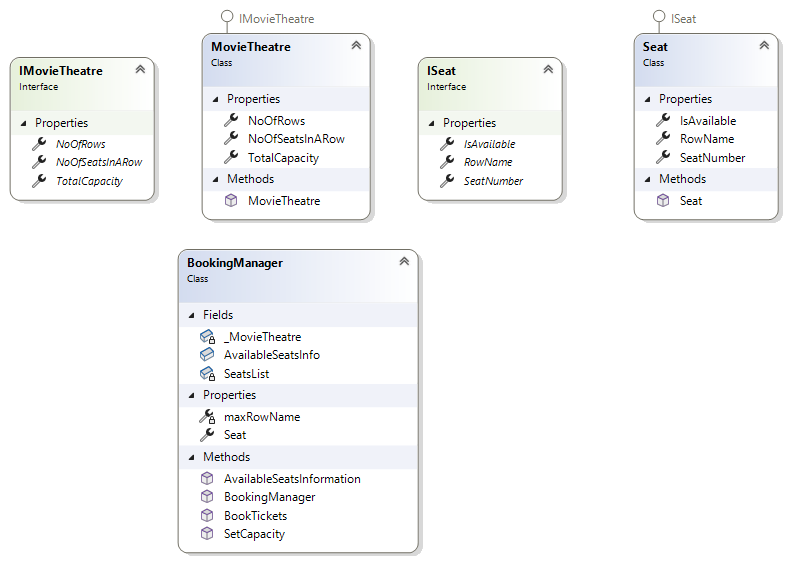
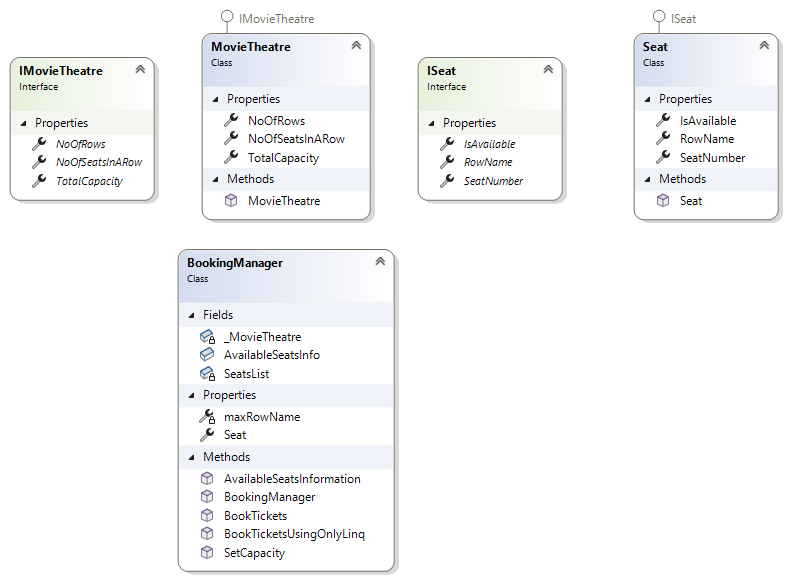
Added new method to use only LINQ to solve CinnamonCinemasSeatBooking Already had Method to book tickets using HASHTable and LINQ. Now I added additional method to solve using ONLY LINQ. Also moved my logic file from Models to different DIR named SeatBookingManager

diff --git a/CinnamonCinemasSeatBooking/SeatBookingManager/BookingManager.cs b/CinnamonCinemasSeatBooking/SeatBookingManager/BookingManager.cs
@@ -4,21 +4,22 @@ using System.Collections.Generic;
 using System.Linq;
 using System.Text;
 using System.Threading.Tasks;
+using CinnamonCinemasSeatBooking.Models;
 
-namespace CinnamonCinemasSeatBooking.Models
+namespace CinnamonCinemasSeatBooking.SeatBookingManager
 {
     public class BookingManager
     {
         private readonly IMovieTheatre _MovieTheatre;
         private char maxRowName { get; set; }
+        public Seat? Seat { get; set; }
 
         public BookingManager(IMovieTheatre MovieTheatre)
         {
             _MovieTheatre = MovieTheatre;
             maxRowName = Convert.ToChar(65 + _MovieTheatre.NoOfRows);
         }
-        public Seat? Seat { get; set; }
-
+        
         List<Seat> SeatsList = new List<Seat>();
         public static Hashtable AvailableSeatsInfo = new Hashtable();
 
@@ -60,7 +61,7 @@ namespace CinnamonCinemasSeatBooking.Models
                     AvailableSeatsInfo.Add(s.Key.ToString(), seatsInfo);
             }
         }
-
+        
         public bool BookTickets(int NoOfTickets)
         {
             Console.WriteLine($"NoOfTickets:  {NoOfTickets}");
@@ -72,7 +73,7 @@ namespace CinnamonCinemasSeatBooking.Models
                     if (AvailableSeatsInfo.ContainsKey(c.ToString()))
                     {
                         SeatNames = AvailableSeatsInfo[c.ToString()]!.ToString();
-                        String[] SeatList = SeatNames!.Split("/");
+                        string[] SeatList = SeatNames!.Split("/");
                         if (SeatList.Count() > NoOfTickets)
                         {
                             for (int i = 0; i < NoOfTickets; i++)
@@ -105,12 +106,43 @@ namespace CinnamonCinemasSeatBooking.Models
                 }
                 else
                 {
-                    Console.WriteLine("Theatre is full. No Seats Available. Cannot book Tickets.");
+                    Console.WriteLine("Theatre is full. No Seats Available. Cannot book Tickets Further.");
                     return false;
                 }
             }
             return true;
         }
+        public bool BookTicketsUsingOnlyLinq(int NoOfTickets)
+        {
+            Console.WriteLine($"NoOfTickets:  {NoOfTickets}");
+            var bookedTickets = 0;
+            var getAvailableSeats = SeatsList
+                                    .Where(seat => seat.IsAvailable == true)
+                                    .OrderBy(seat => seat.RowName)
+                                    .GroupBy(seat => seat.RowName);
+            if (getAvailableSeats.Count() != 0)
+            {
+                foreach (var s in getAvailableSeats)
+                {
+                    foreach (var seat in s)
+                    {
+                        seat.IsAvailable = false;
+                        Console.WriteLine($"Allocated SeatNumber:  {seat.SeatNumber}");
+                        bookedTickets += 1;
+                        if (bookedTickets == NoOfTickets)
+                            return true;
+                        else
+                            continue;
+                    }
+                }
+            }
+            else
+                return false;
 
+            if (bookedTickets < NoOfTickets || getAvailableSeats.Count() == NoOfTickets)
+                return false;
+
+            return true;
+        }
     }
 }

diff --git a/CinnamonCinemasSeatBooking/Program.cs b/CinnamonCinemasSeatBooking/Program.cs
@@ -1,2 +1,31 @@
 // See https://aka.ms/new-console-template for more information
+using System.Collections;
+using System.Runtime.CompilerServices;
+using CinnamonCinemasSeatBooking.Models;
+using CinnamonCinemasSeatBooking.SeatBookingManager;
+
 Console.WriteLine("Hello, World!");
+
+var _MovieTheatre = new MovieTheatre(3, 5);
+var _BookingManager =  new BookingManager(_MovieTheatre);
+
+_BookingManager.SetCapacity();
+
+Random randomNumber = new Random();
+int randNumber;
+bool isSeatsAvailable = true;
+
+while (isSeatsAvailable)
+{
+    randNumber = randomNumber.Next(1, 4);
+    isSeatsAvailable = _BookingManager.BookTicketsUsingOnlyLinq(randNumber);
+    if (isSeatsAvailable == false)
+    {
+        Console.WriteLine("Theatre is full. No Seats Available. Cannot book Tickets Further.");
+        break;
+    }
+}
+
+/*Console.WriteLine(" Available Seats are: ");
+foreach (string Key in BookingManager.AvailableSeatsInfo.Keys)
+    Console.WriteLine(String.Format("{0} : {1}", Key, BookingManager.AvailableSeatsInfo[Key]));*/

diff --git a/CinnamonCinemasSeatBooking.Tests/CinnamonCinemasSeatBookingTests.cs b/CinnamonCinemasSeatBooking.Tests/CinnamonCinemasSeatBookingTests.cs
@@ -1,5 +1,6 @@
 using System.Collections;
 using CinnamonCinemasSeatBooking.Models;
+using CinnamonCinemasSeatBooking.SeatBookingManager;
 using FluentAssertions;
 
 namespace CinnamonCinemasSeatBooking.Tests;
@@ -40,9 +41,6 @@ public class CinnamonCinemasSeatBookingTests
             else
                 BookingManager.AvailableSeatsInfo[Key].Should().Be("C1/C2/C3/C4/C5");
         }
-        /*Console.WriteLine(" Available Seats are: ");
-        foreach (string Key in BookingManager.AvailableSeatsInfo.Keys)
-            Console.WriteLine(String.Format("{0} : {1}", Key, BookingManager.AvailableSeatsInfo[Key]));*/
     }
 
     [Test]
@@ -51,7 +49,7 @@ public class CinnamonCinemasSeatBookingTests
         Random randomNumber = new Random();
         int randNumber;
         bool isSeatsAvailable = true;
-        while(isSeatsAvailable)
+        while (isSeatsAvailable)
         {
             randNumber = randomNumber.Next(1, 4);
             isSeatsAvailable = _BookingManager.BookTickets(randNumber);
